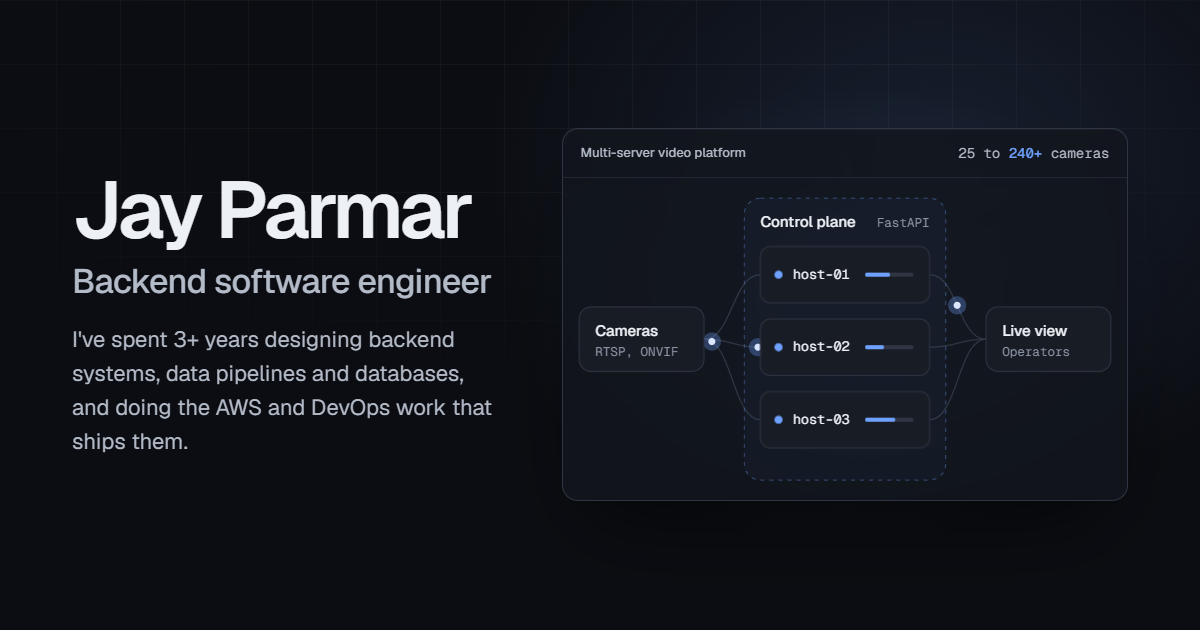
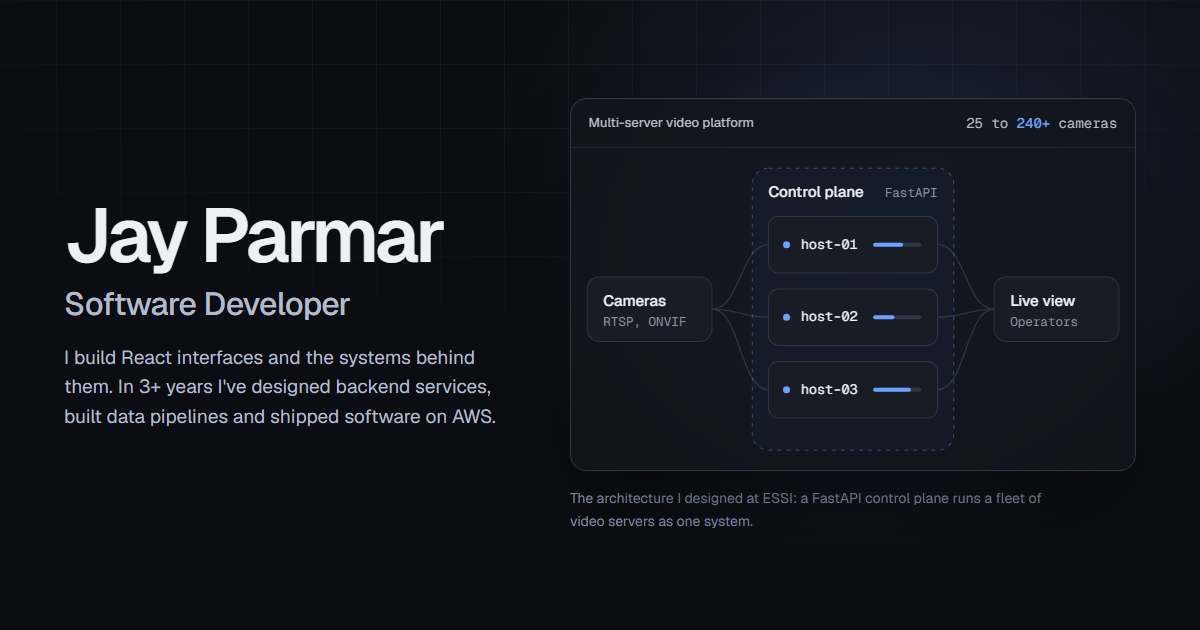
Introduce Jay as a full stack software developer

diff --git a/tests/site/hero.test.ts b/tests/site/hero.test.ts
@@ -10,6 +10,13 @@ describe('hero', () => {
     expect(html).toMatch(new RegExp(`<h1[^>]*>${profile.name}</h1>`));
   });
 
+  it('uses the full stack role on the page and in link previews', () => {
+    const title = `${profile.name}, Software Developer`;
+    expect(html.match(/<title>([^<]+)<\/title>/)?.[1]).toBe(title);
+    expect(html.match(/<meta property="og:title" content="([^"]+)"/)?.[1]).toBe(title);
+    expect(html.match(/<p class="role"[^>]*>([^<]+)<\/p>/)?.[1]).toBe('Software Developer');
+  });
+
   it('draws the system I designed, with a label of its own and a caption', () => {
     for (const part of ['Cameras', 'Control plane', 'host-01', 'host-02', 'host-03', 'Live view']) {
       expect(figure).toContain(`>${part}<`);

diff --git a/src/data/profile.ts b/src/data/profile.ts
@@ -1,8 +1,8 @@
 export const profile = {
   name: 'Jay Parmar',
-  role: 'Backend software engineer',
+  role: 'Software Developer',
   intro:
-    "I've spent 3+ years designing backend systems, data pipelines and databases, and doing the AWS and DevOps work that ships them.",
+    "I build React interfaces and the systems behind them. In 3+ years I've designed backend services, built data pipelines and shipped software on AWS.",
   current: 'Full Stack Developer at ESSI Integrated Technologies',
   location: 'New Delhi, India',
   email: 'jayparmar789@gmail.com',
